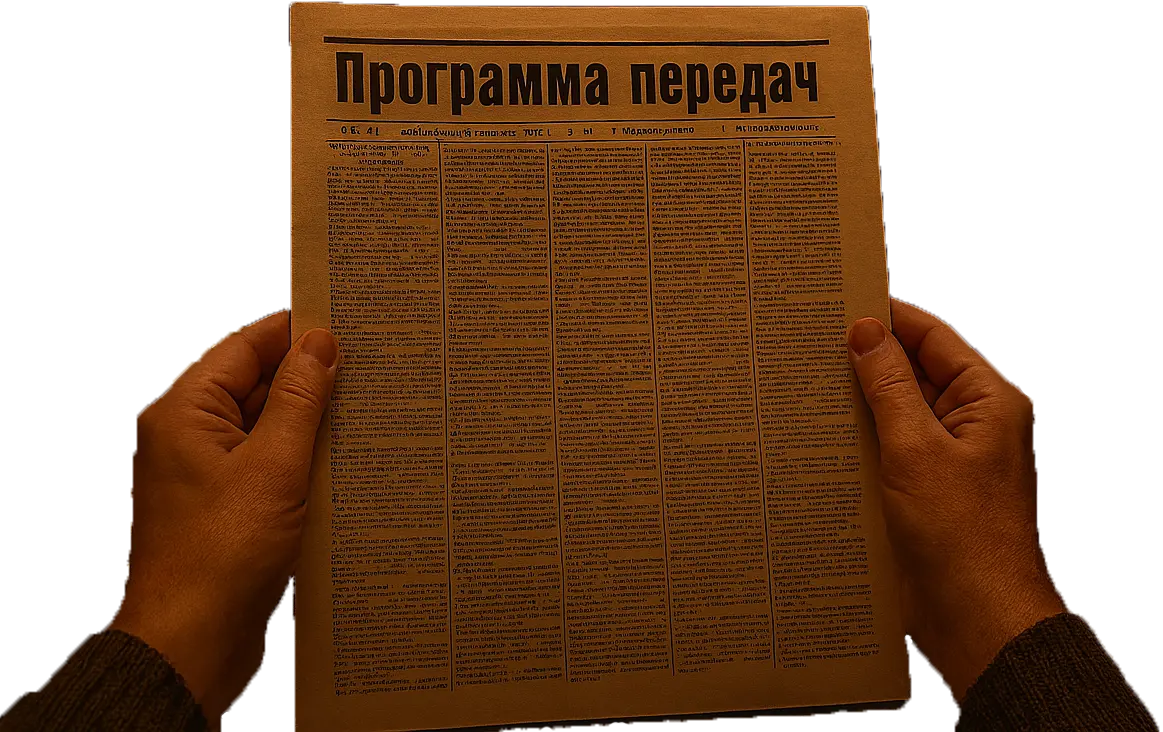
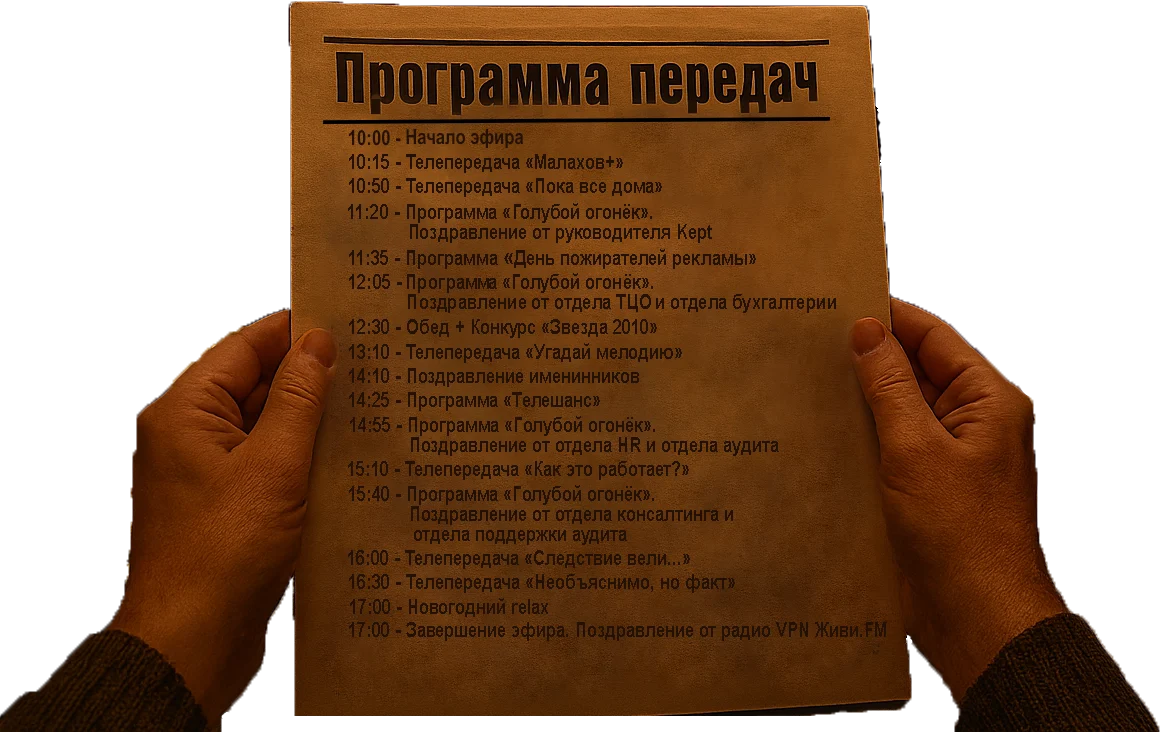
feat: finish project

diff --git a/src/data/blueLightData.tsx b/src/data/blueLightData.tsx
@@ -22,10 +22,10 @@ export const blueLightLinksData: BlueLightDataTypes = [
   },
   {
     className: 'shampanskoe',
-    url: 'bookkeeping',
+    url: 'accounting',
     imgSrc: shampanskoeImg,
     imgAlt: 'shampanskoe',
-    titleText: 'Book keeping',
+    titleText: 'Accounting',
     x: '0',
     y: '-45%',
   },
@@ -86,9 +86,9 @@ export const blueLightRoutingLinks: BlueLightDepartmentsDataTypes = [
     videoLink2: 'https://youtu.be/SS7HFg02TS0?si=vIb5oE-vLTDWnmkF',
   },
   {
-    link: 'bookkeeping',
+    link: 'accounting',
     image: shampanskoeImg,
-    bottomText: 'Отдела book keeping',
+    bottomText: 'Отдела бухгалтерии',
     className: 'shampanskoe',
     videoLink1: '',
     videoLink2: 'https://youtu.be/-NZOmv27-OQ?si=OsdMO9RFUHxupdlo',
@@ -122,7 +122,7 @@ export const blueLightRoutingLinks: BlueLightDepartmentsDataTypes = [
     image: sharImg,
     bottomText: 'Отдела ТЦО',
     className: 'shar',
-    videoLink1: '',
+    videoLink1: 'https://youtu.be/nFbsI4W5lKI?si=IFe2VhlfIGHunEtI',
     videoLink2: 'https://youtu.be/aC7_ZAnY9OE?si=P25LbXUCj_YB-Lcq',
   },
   {
@@ -130,7 +130,7 @@ export const blueLightRoutingLinks: BlueLightDepartmentsDataTypes = [
     image: podarokImg,
     bottomText: 'Отдела поддержки аудита',
     className: 'podarok',
-    videoLink1: '',
+    videoLink1: 'https://youtu.be/43HK3yuBLDQ?si=ijWYR7RKtgtW0vMw',
     videoLink2: 'https://youtu.be/8Q2WwUHDUj4?si=_EuuSzjDlCrDy-Iq',
   },
 ];

diff --git a/src/data/malahovData.tsx b/src/data/malahovData.tsx
@@ -227,7 +227,7 @@ export const malahovData: MalahovInterface[] = [
     textAnimationXEnd: '0',
     textAnimationYStart: '0',
     textAnimationYEnd: '0',
-    text: 'Несколько раз в день, по старинному рецепту, нужно смазывать «ЭТИ МЕСТА» соплями и вскоре вы почувствуете облегчение',
+    text: 'Несколько раз в день, по старинному рецепту, нужно смазывать «ЭТИ МЕСТА» соплями и вскоре вы почувствуете облегчение.',
     swiperImageXStart: '0',
     swiperImageXEnd: '0',
     swiperImageYStart: '100%',

diff --git a/src/layouts/TVLayout.tsx b/src/layouts/TVLayout.tsx
@@ -74,6 +74,8 @@ const TVLayout = (): JSX.Element => {
       setLinkToNextPage('/tv/telechance');
     } else if (currentLocation === 'tv/telechance/game') {
       setLinkToNextPage('/tv/telechance/results');
+    } else {
+      setLinkToNextPage('/tv');
     }
   }, [currentLocation]);
 

diff --git a/src/components/HouseGame/houseGameStyles.scss b/src/components/HouseGame/houseGameStyles.scss
@@ -162,6 +162,7 @@
           top: 20%;
           left: 0;
           z-index: 0;
+          max-width: 300px;
           width: 100%;
           max-height: 280px;
           height: 100%;
